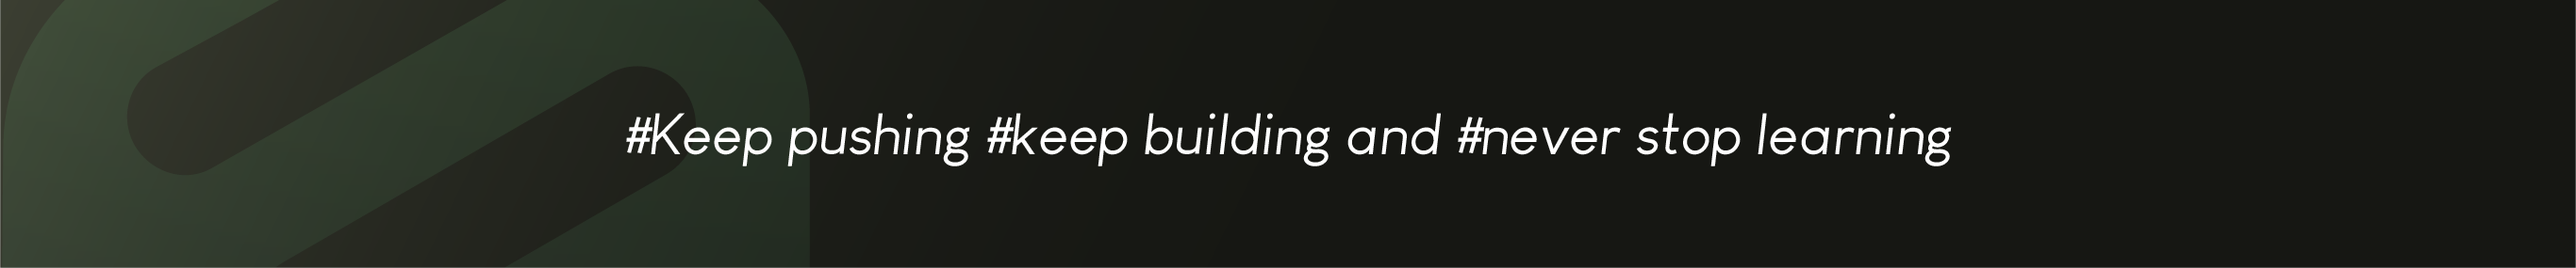
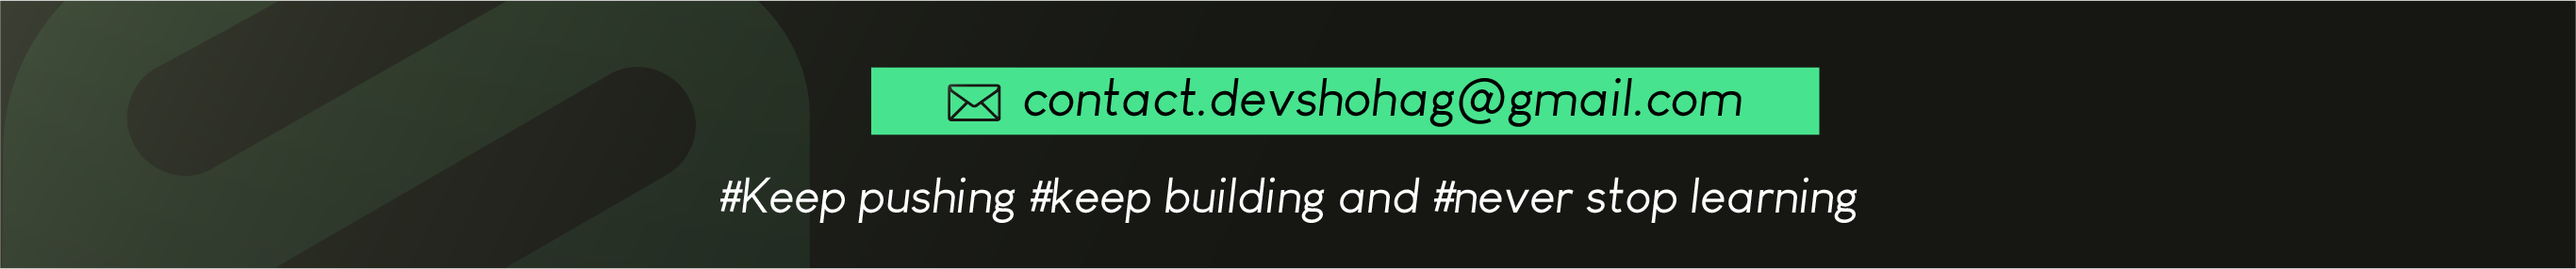
replaced footer image

diff --git a/README.md b/README.md
@@ -1,188 +1,57 @@
-<div align="center">
-
-<img src="./hero.png" alt="Profile Hero Banner" width="100%" />
-
-</div>
-
----
-
-<h1 align="center">Hi 👋, I'm Your Name</h1>
-
-<h3 align="center">A passionate Frontend / MERN Stack Developer from Bangladesh</h3>
-
 <p align="center">
-I love building modern, responsive, and user-friendly web applications.  
-Currently, I am learning advanced JavaScript, React, Node.js, and full-stack development.
+  <img src="./banner.png" alt="Banner" />
 </p>
 
----
+<h1 align="center">Hi there 👋, I'm Shohag</h1>
+<p align="center">A MERN stack developer and CSE student with a strong interest in building applications using JavaScript and Python.</p>
 
-## 👨💻 About Me
+## 🛠 Tech Stack
 
-- 🔭 I’m currently working on **MERN Stack Projects**
-- 🌱 I’m currently learning **Next.js, TypeScript, and MongoDB**
-- 👯 I’m looking to collaborate on **open-source and frontend projects**
-- 💬 Ask me about **HTML, CSS, JavaScript, React, Tailwind CSS**
-- 📫 Reach me at **your-email@example.com**
-- ⚡ Fun fact: **I enjoy turning ideas into real web applications**
+### 🎨 Frontend
+<p align="left">
+  <img src="./HTML5.png"        alt="HTML5"        height="120" />
+  <img src="./CSS3.png"         alt="CSS3"         height="120" />
+  <img src="./JavaScript.png"   alt="JavaScript"   height="120" />
+  <img src="./TypeScript.png"   alt="TypeScript"   height="120" />
+  <img src="./TailwindCSS.png"  alt="TailwindCSS"  height="120" />
+  <img src="./React.png"        alt="React"        height="120" />
+  <img src="./NextJS.png"       alt="Next.js"      height="120" />
+</p>
 
----
+### ⚙ Backend
+<p align="left">
+  <img src="./NodeJS.png"   alt="Node.js"  height="120" />
+  <img src="./Express.png"  alt="Express"  height="120" />
+</p>
 
-## 🚀 Tech Stack
+### 🗄 Database
+<p align="left">
+  <img src="./MongoDB.png"  alt="MongoDB"  height="120" />
+  <img src="./MySQL.png"    alt="MySQL"    height="120" />
+</p>
 
-<div align="center">
+### 🧰 Tools
+<p align="left">
+  <img src="./Git.png"      alt="Git"      height="120" />
+  <img src="./GitHub.png"   alt="GitHub"   height="120" />
+  <img src="./NPM.png"      alt="NPM"      height="120" />
+  <img src="./Postmen.png"  alt="Postman"  height="120" />
+  <img src="/VS%20Code.png" alt="VS Code" height="120" />
+</p>
 
-<table>
-  <tr>
-    <td align="center" width="120">
-      <img src="./HTML5.png" width="70" alt="HTML5" />
-      <br><b>HTML5</b>
-    </td>
-    <td align="center" width="120">
-      <img src="./CSS3.png" width="70" alt="CSS3" />
-      <br><b>CSS3</b>
-    </td>
-    <td align="center" width="120">
-      <img src="./JavaScript.png" width="70" alt="JavaScript" />
-      <br><b>JavaScript</b>
-    </td>
-    <td align="center" width="120">
-      <img src="./React.png" width="70" alt="React" />
-      <br><b>React</b>
-    </td>
-  </tr>
+## 🌐 Connect with Me
+<p align="center">
+  <a href="(https://devshohag.vercel.app)">
+    <img src="/ProtfolioLink.png" alt="Portfolio" height="50" />
+  </a>
+  <a href="https://linkedin.com/in/dev-shohag">
+    <img src="./LinkdinLink.png"   alt="LinkedIn"  height="50" />
+  </a>
+  <a href="https://facebook.com/shohag989">
+    <img src="./FacebookLink.png"  alt="Facebook"  height="50" />
+  </a>
+</p>
 
-  <tr>
-    <td align="center" width="120">
-      <img src="./TailwindCSS.png" width="70" alt="Tailwind CSS" />
-      <br><b>Tailwind</b>
-    </td>
-    <td align="center" width="120">
-      <img src="./TypeScript.png" width="70" alt="TypeScript" />
-      <br><b>TypeScript</b>
-    </td>
-    <td align="center" width="120">
-      <img src="./NodeJS.png" width="70" alt="Node.js" />
-      <br><b>Node.js</b>
-    </td>
-    <td align="center" width="120">
-      <img src="./Express.png" width="70" alt="Express.js" />
-      <br><b>Express.js</b>
-    </td>
-  </tr>
-
-  <tr>
-    <td align="center" width="120">
-      <img src="./MongoDB.png" width="70" alt="MongoDB" />
-      <br><b>MongoDB</b>
-    </td>
-    <td align="center" width="120">
-      <img src="./MySQL.png" width="70" alt="MySQL" />
-      <br><b>MySQL</b>
-    </td>
-    <td align="center" width="120">
-      <img src="./NextJS.png" width="70" alt="Next.js" />
-      <br><b>Next.js</b>
-    </td>
-    <td align="center" width="120">
-      <img src="./Git.png" width="70" alt="Git" />
-      <br><b>Git</b>
-    </td>
-  </tr>
-
-  <tr>
-    <td align="center" width="120">
-      <img src="./GitHub.png" width="70" alt="GitHub" />
-      <br><b>GitHub</b>
-    </td>
-    <td align="center" width="120">
-      <img src="./NPM.png" width="70" alt="NPM" />
-      <br><b>NPM</b>
-    </td>
-    <td align="center" width="120">
-      <img src="./Postmen.png" width="70" alt="Postman" />
-      <br><b>Postman</b>
-    </td>
-    <td align="center" width="120">
-      <img src="./VS%20Code.png" width="70" alt="VS Code" />
-      <br><b>VS Code</b>
-    </td>
-  </tr>
-</table>
-
-</div>
-
----
-
-## 📌 Featured Projects
-
-### 🌐 Project One
-A short description of your project.
-
-- Live Site: `your-live-link`
-- Repository: `your-repo-link`
-- Technologies: React, Tailwind CSS, Firebase
-
-### 🛒 Project Two
-A short description of your project.
-
-- Live Site: `your-live-link`
-- Repository: `your-repo-link`
-- Technologies: MERN Stack
-
-### 📱 Project Three
-A short description of your project.
-
-- Live Site: `your-live-link`
-- Repository: `your-repo-link`
-- Technologies: Next.js, TypeScript
-
----
-
-## 📊 GitHub Stats
-
-<div align="center">
-
-<img src="https://github-readme-stats.vercel.app/api?username=YOUR_USERNAME&show_icons=true&theme=tokyonight" alt="GitHub Stats" />
-
-<br><br>
-
-<img src="https://github-readme-streak-stats.herokuapp.com/?user=YOUR_USERNAME&theme=tokyonight" alt="GitHub Streak" />
-
-<br><br>
-
-<img src="https://github-readme-stats.vercel.app/api/top-langs/?username=YOUR_USERNAME&layout=compact&theme=tokyonight" alt="Top Languages" />
-
-</div>
-
----
-
-## 🌐 Connect With Me
-
-<div align="center">
-
-<a href="https://github.com/YOUR_USERNAME">
-  <img src="./GitHub.png" width="60" alt="GitHub" />
-</a>
-
-&nbsp;&nbsp;
-
-<a href="https://www.linkedin.com/in/YOUR_LINKEDIN_USERNAME">
-  LinkedIn
-</a>
-
-&nbsp;&nbsp;
-
-<a href="mailto:your-email@example.com">
-  Email
-</a>
-
-</div>
-
----
-
-<div align="center">
-
-<img src="./footer.png" alt="Profile Footer Banner" width="100%" />
-
-</div>
+<p align="center">
+  <img src="./Footer.png" alt="Footer" />
+</p>
